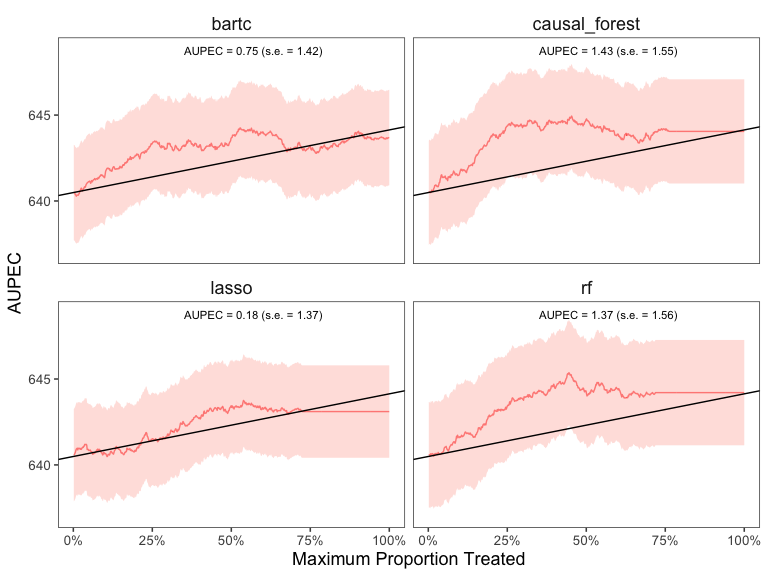
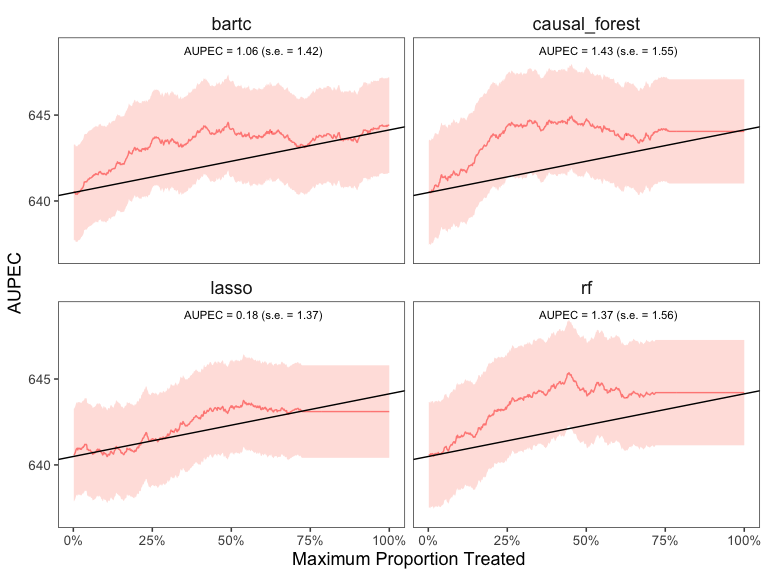
format readme file

diff --git a/README.md b/README.md
@@ -1,7 +1,7 @@
 
 <!-- README.md is generated from README.Rmd. Please edit that file -->
 
-<img src="man/figures/README-manual.png" width="60%" />
+<img src="man/figures/README-manual.png" width="100%" />
 
 # evalITR
 
@@ -15,7 +15,7 @@ You can install the development version of evalITR from
 
 ``` r
 # install.packages("devtools")
-devtools::install_github("MichaelLLi/evalITR")
+devtools::install_github("MichaelLLi/evalITR", ref = "causal-ml")
 ```
 
 (Optional) if you have multiple cores, we recommendate using
@@ -65,16 +65,12 @@ outcomes <- "g3tlangss"
 # specifying the treatment
 treatment <- "treatment"
 
-# specifying covariates
-covariates <-  star %>% dplyr::select(-c("g3tlangss",
-                "g3treadss","g3tmathss","treatment")) %>% 
-                colnames()
-
-# specifying the data
-star_data = star %>% dplyr::select(-c(g3treadss,g3tmathss))
+# specifying the data (remove other outcomes)
+star_data <- star %>% dplyr::select(-c(g3treadss,g3tmathss))
 
 # specifying the formula
-user_formula <- as.formula(paste(paste0(outcomes)," ~ ", paste0(covariates, collapse = "+"), " + treatment"))
+user_formula <- as.formula(
+  "g3tlangss ~ treatment + gender + race + birthmonth + birthyear + SCHLURBN + GRDRANGE + GKENRMNT + GKFRLNCH + GKBUSED + GKWHITE ")
 
 
 # estimate ITR 
@@ -149,26 +145,26 @@ design are given in [Imai and Li
 summary(est)
 #> ── PAPE ────────────────────────────────────────────────────────────────────────
 #>   estimate std.deviation     algorithm statistic p.value
-#> 1        3           1.4 causal_forest       2.2   0.026
+#> 1      1.3           1.5 causal_forest      0.87    0.38
 #> 
 #> ── PAPEp ───────────────────────────────────────────────────────────────────────
 #>   estimate std.deviation     algorithm statistic p.value
-#> 1      2.4           1.2 causal_forest       2.1   0.038
+#> 1      2.3           1.2 causal_forest       1.9   0.056
 #> 
 #> ── PAPDp ───────────────────────────────────────────────────────────────────────
 #> data frame with 0 columns and 0 rows
 #> 
 #> ── AUPEC ───────────────────────────────────────────────────────────────────────
 #>   estimate std.deviation     algorithm statistic p.value
-#> 1      2.7             1 causal_forest       2.7  0.0076
+#> 1     0.41           1.1 causal_forest      0.38     0.7
 #> 
 #> ── GATE ────────────────────────────────────────────────────────────────────────
 #>   estimate std.deviation     algorithm group statistic p.value upper lower
-#> 1   -143.3           108 causal_forest     1    -1.327    0.18  -321    34
-#> 2     28.7           108 causal_forest     2     0.265    0.79  -149   207
-#> 3      6.6           108 causal_forest     3     0.061    0.95  -171   184
-#> 4    127.0           108 causal_forest     4     1.177    0.24   -51   305
-#> 5     21.0           107 causal_forest     5     0.196    0.84  -155   197
+#> 1       15           107 causal_forest     1      0.14    0.89  -161   192
+#> 2      108           109 causal_forest     2      0.99    0.32   -72   287
+#> 3     -120           108 causal_forest     3     -1.12    0.26  -298    57
+#> 4       73           109 causal_forest     4      0.68    0.50  -105   252
+#> 5      -26           107 causal_forest     5     -0.24    0.81  -202   150
 
 # similarly for caret
 # summary(est_caret)
@@ -198,7 +194,7 @@ summary(est)$GATE %>%
   scale_color_manual(values = c("#E69F00", "#56B4E9", "#009E73", "#076f00", "#0072B2")) 
 ```
 
-<img src="man/figures/gate.png" width="100%" />
+<img src="man/figures/gate.png" width="60%" />
 
 We plot the estimated Area Under the Prescriptive Effect Curve for the
 writing score across a range of budget constraints for causal forest.
@@ -208,13 +204,7 @@ writing score across a range of budget constraints for causal forest.
 plot(est)
 ```
 
-<img src="man/figures/README-sp_plot-1.png" style="display: block; margin: auto;" />
-
-``` r
-
-# plot the AUPEC for the model trained using caret
-# plot(est_caret)
-```
+<img src="man/figures/README-sp_plot-1.png" width="60%" />
 
 ## Example under cross-validation
 
@@ -224,53 +214,32 @@ of folds (`n_folds`). The following code presents an example of
 estimating ITR with 3 folds cross-validation. In practice, we recommend
 using 10 folds to get a more stable model performance.
 
-``` r
-# estimate ITR 
-set.seed(2021)
-fit_cv <- estimate_itr(
-               treatment = treatment,
-               form = user_formula,
-               data = star_data,
-               trcontrol = fitControl,
-               algorithms = c("causal_forest"),
-               budget = 0.2,
-               n_folds = 3)
-#> Evaluate ITR with cross-validation ...
+    #> Evaluate ITR with cross-validation ...
+    #> Cannot compute PAPDp
+    #> ── PAPE ────────────────────────────────────────────────────────────────────────
+    #>   estimate std.deviation     algorithm statistic p.value
+    #> 1     0.49          0.91 causal_forest      0.54    0.59
+    #> 
+    #> ── PAPEp ───────────────────────────────────────────────────────────────────────
+    #>   estimate std.deviation     algorithm statistic p.value
+    #> 1      2.6          0.76 causal_forest       3.4   6e-04
+    #> 
+    #> ── PAPDp ───────────────────────────────────────────────────────────────────────
+    #> data frame with 0 columns and 0 rows
+    #> 
+    #> ── AUPEC ───────────────────────────────────────────────────────────────────────
+    #>   estimate std.deviation     algorithm statistic p.value
+    #> 1      1.2           1.5 causal_forest      0.81    0.42
+    #> 
+    #> ── GATE ────────────────────────────────────────────────────────────────────────
+    #>   estimate std.deviation     algorithm group statistic p.value upper lower
+    #> 1      -85            59 causal_forest     1     -1.45    0.15    30  -201
+    #> 2       40            59 causal_forest     2      0.68    0.50   157   -76
+    #> 3       29            59 causal_forest     3      0.50    0.62   145   -86
+    #> 4       13            59 causal_forest     4      0.22    0.82   129  -103
+    #> 5       21           102 causal_forest     5      0.20    0.84   220  -179
 
-# evaluate ITR 
-est_cv <- evaluate_itr(fit_cv)
-#> Cannot compute PAPDp
-
-# summarize estimates
-summary(est_cv)
-#> ── PAPE ────────────────────────────────────────────────────────────────────────
-#>   estimate std.deviation     algorithm statistic p.value
-#> 1     0.49          0.91 causal_forest      0.54    0.59
-#> 
-#> ── PAPEp ───────────────────────────────────────────────────────────────────────
-#>   estimate std.deviation     algorithm statistic p.value
-#> 1      2.6          0.76 causal_forest       3.4   6e-04
-#> 
-#> ── PAPDp ───────────────────────────────────────────────────────────────────────
-#> data frame with 0 columns and 0 rows
-#> 
-#> ── AUPEC ───────────────────────────────────────────────────────────────────────
-#>   estimate std.deviation     algorithm statistic p.value
-#> 1      1.2           1.5 causal_forest      0.81    0.42
-#> 
-#> ── GATE ────────────────────────────────────────────────────────────────────────
-#>   estimate std.deviation     algorithm group statistic p.value upper lower
-#> 1      -85            59 causal_forest     1     -1.45    0.15    30  -201
-#> 2       40            59 causal_forest     2      0.68    0.50   157   -76
-#> 3       29            59 causal_forest     3      0.50    0.62   145   -86
-#> 4       13            59 causal_forest     4      0.22    0.82   129  -103
-#> 5       21           102 causal_forest     5      0.20    0.84   220  -179
-
-# plot the AUPEC 
-plot(est_cv)
-```
-
-![](man/figures/README-cv_estimate-1.png)<!-- -->
+<img src="man/figures/README-cv_estimate-1.png" width="60%" />
 
 ## Example with multiple ML algorithms
 
@@ -323,30 +292,30 @@ summary(est_cv)
 #> ── PAPE ────────────────────────────────────────────────────────────────────────
 #>   estimate std.deviation     algorithm statistic p.value
 #> 1     0.95          0.82 causal_forest      1.17    0.24
-#> 2    -0.34          0.39         bartc     -0.88    0.38
+#> 2     0.40          0.40         bartc      1.00    0.32
 #> 3     0.17          1.07         lasso      0.16    0.87
 #> 4     1.27          0.95            rf      1.33    0.18
 #> 
 #> ── PAPEp ───────────────────────────────────────────────────────────────────────
 #>   estimate std.deviation     algorithm statistic p.value
 #> 1     2.55          0.65 causal_forest      3.91 9.2e-05
-#> 2     1.55          0.90         bartc      1.72 8.6e-02
+#> 2     1.85          0.87         bartc      2.12 3.4e-02
 #> 3    -0.21          0.63         lasso     -0.33 7.4e-01
 #> 4     1.69          1.11            rf      1.52 1.3e-01
 #> 
 #> ── PAPDp ───────────────────────────────────────────────────────────────────────
 #>   estimate std.deviation             algorithm statistic p.value
-#> 1     1.00          0.90 causal_forest x bartc      1.12 0.26457
+#> 1     0.70          0.63 causal_forest x bartc      1.11 0.26744
 #> 2     2.76          0.80 causal_forest x lasso      3.46 0.00054
 #> 3     0.87          0.71    causal_forest x rf      1.22 0.22292
-#> 4     1.76          1.11         bartc x lasso      1.59 0.11276
-#> 5    -0.13          1.13            bartc x rf     -0.12 0.90651
+#> 4     2.06          1.19         bartc x lasso      1.73 0.08348
+#> 5     0.16          1.05            bartc x rf      0.16 0.87587
 #> 6    -1.89          0.72            lasso x rf     -2.62 0.00892
 #> 
 #> ── AUPEC ───────────────────────────────────────────────────────────────────────
 #>   estimate std.deviation     algorithm statistic p.value
 #> 1     1.43           1.5 causal_forest      0.92    0.36
-#> 2     0.75           1.4         bartc      0.53    0.59
+#> 2     1.06           1.4         bartc      0.74    0.46
 #> 3     0.18           1.4         lasso      0.13    0.90
 #> 4     1.37           1.6            rf      0.88    0.38
 #> 
@@ -357,11 +326,11 @@ summary(est_cv)
 #> 3      60.9            59 causal_forest     3     1.034   0.301 176.4   -55
 #> 4       7.6            59 causal_forest     4     0.128   0.898 123.7  -109
 #> 5      40.9            99 causal_forest     5     0.411   0.681 235.8  -154
-#> 6       5.9            82         bartc     1     0.072   0.943 166.7  -155
-#> 7     -91.4            59         bartc     2    -1.547   0.122  24.4  -207
-#> 8     -19.1            96         bartc     3    -0.199   0.842 168.7  -207
-#> 9      53.8            89         bartc     4     0.603   0.547 228.9  -121
-#> 10     69.0            89         bartc     5     0.776   0.438 243.3  -105
+#> 6     -45.0            59         bartc     1    -0.760   0.447  71.1  -161
+#> 7     -25.6            97         bartc     2    -0.266   0.791 163.5  -215
+#> 8     -31.8            90         bartc     3    -0.355   0.722 143.7  -207
+#> 9      36.3            59         bartc     4     0.617   0.537 151.7   -79
+#> 10     84.3            87         bartc     5     0.967   0.334 255.3   -87
 #> 11    -14.4            94         lasso     1    -0.154   0.878 169.2  -198
 #> 12    -94.5            90         lasso     2    -1.051   0.293  81.8  -271
 #> 13     87.9            99         lasso     3     0.886   0.376 282.4  -107
@@ -393,4 +362,4 @@ fit$estimates$models$rf %>%
   ggplot() + theme_bw() 
 ```
 
-<img src="man/figures/rf.png" width="100%" />
+<img src="man/figures/rf.png" width="60%" />
